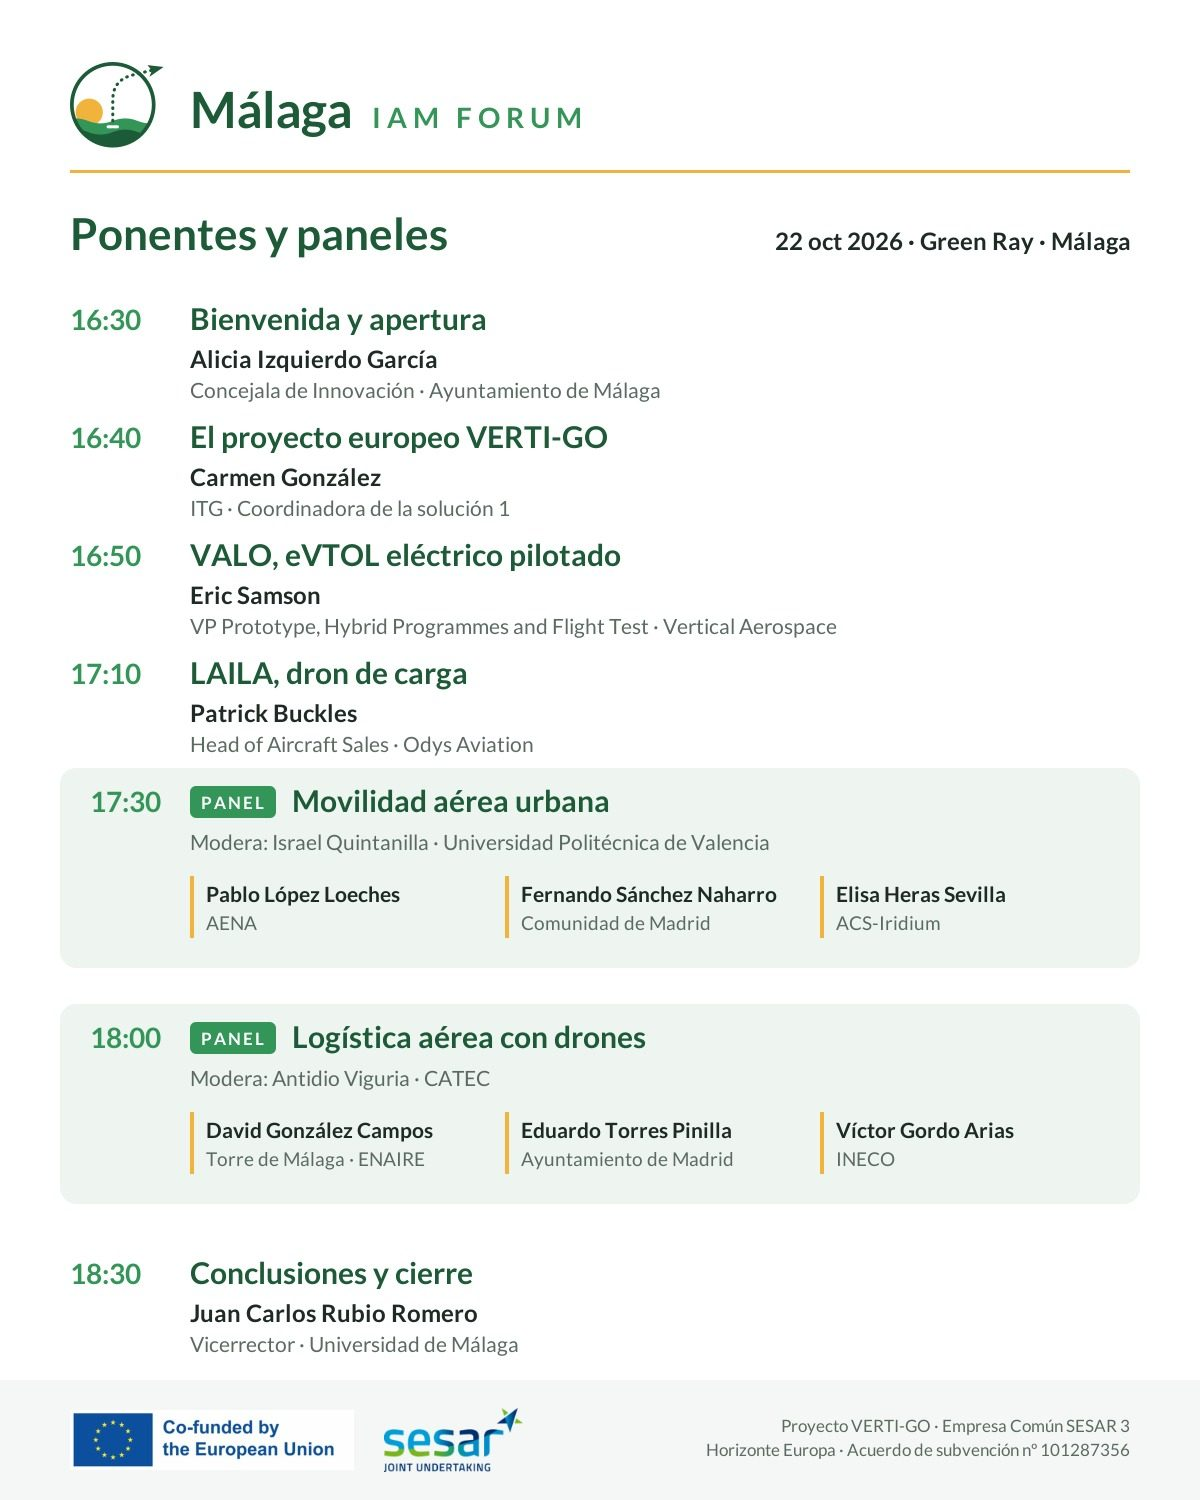
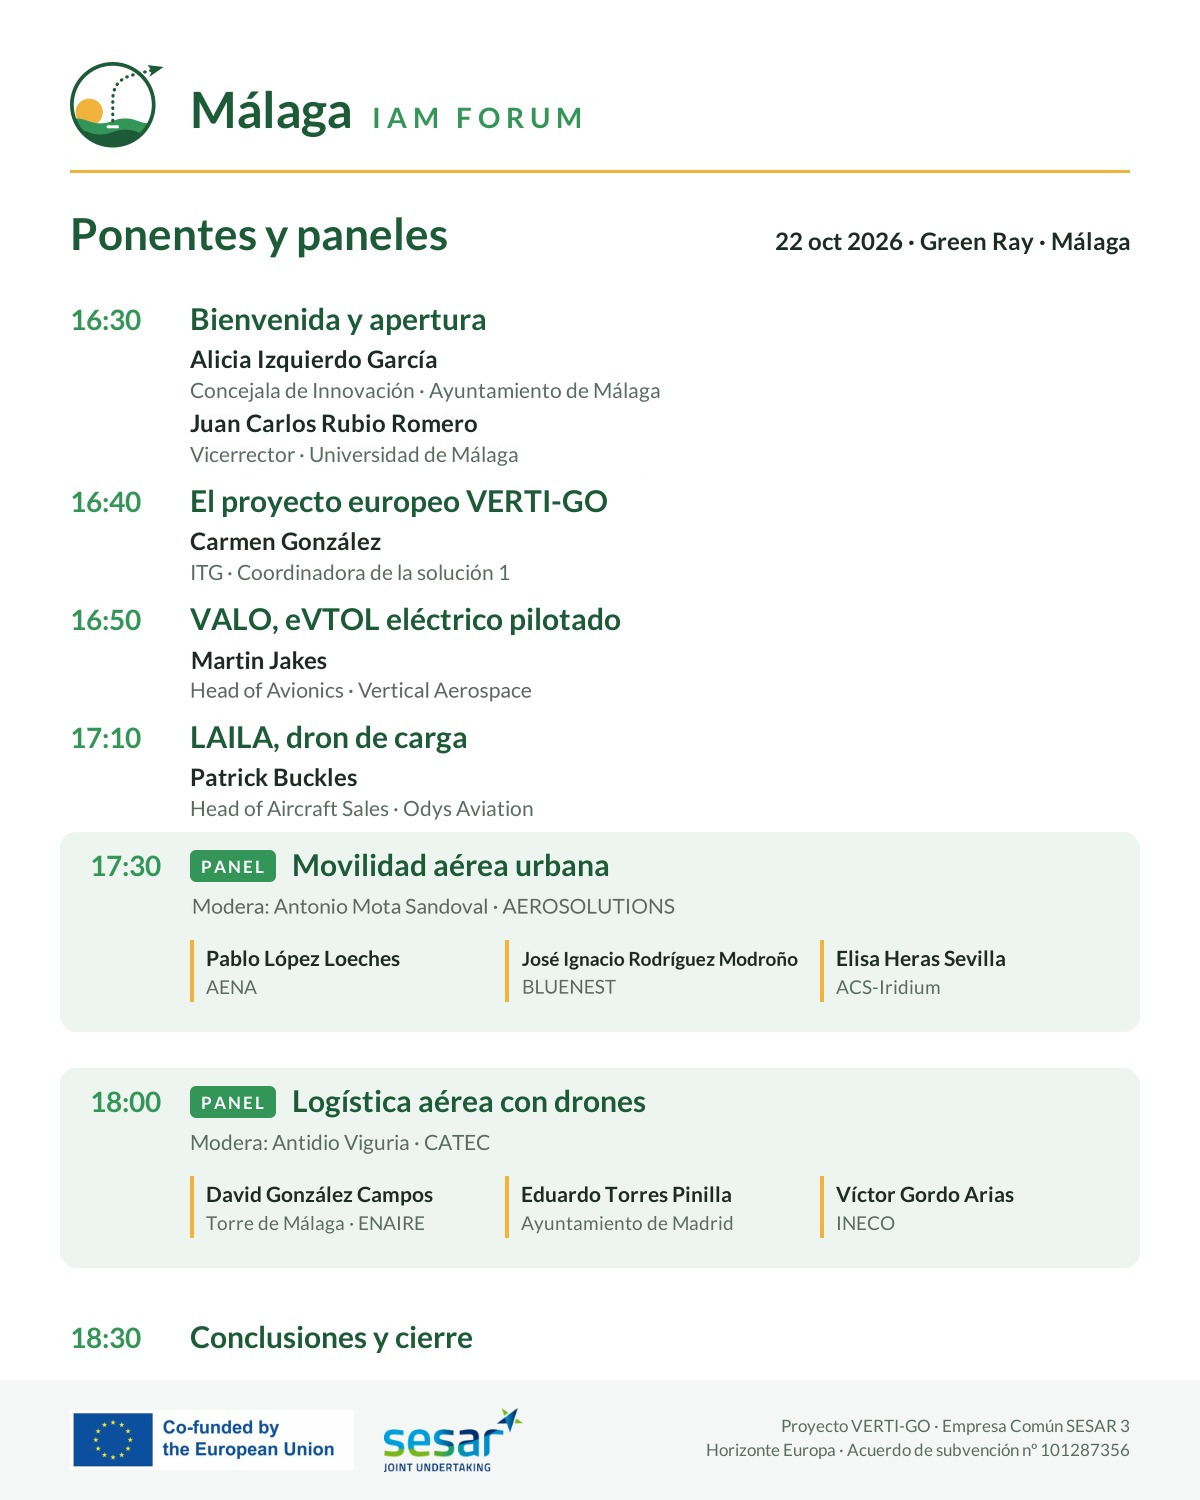
Actualizar agenda del 22 de octubre
- 16:30: se añade Juan Carlos Rubio Romero (Vicerrector, Universidad de Málaga)
- 16:50: Martin Jakes (Head of Avionics, Vertical Aerospace) sustituye a Eric Samson
- Panel 17:30: modera Antonio Mota Sandoval (AEROSOLUTIONS); José Ignacio Rodríguez Modroño (BLUENEST) sustituye a Fernando Sánchez Naharro
- 18:30: Conclusiones y cierre, sin ponente
- Imagen de ponentes actualizada

Claude-Session: https://claude.ai/code/session_018V2L71TcRUTZy4RYfs7X4L

diff --git a/index.html b/index.html
@@ -480,15 +480,15 @@ footer a{color:#fff}
           <span class="eyebrow">Encuentro 1 · jueves 22 de octubre de 2026</span>
           <h3 style="font-size:1.6rem;margin:6px 0 20px">Presentación pública del proyecto VERTI-GO</h3>
           <ol class="agenda">
-            <li><time>16:30</time><div><div class="t">Bienvenida y presentación del Málaga IAM Forum</div><div class="s">Alicia Izquierdo García · Concejala de Innovación, Ayuntamiento de Málaga</div></div></li>
+            <li><time>16:30</time><div><div class="t">Bienvenida y presentación del Málaga IAM Forum</div><div class="s">Alicia Izquierdo García · Concejala de Innovación, Ayuntamiento de Málaga</div><div class="s">Juan Carlos Rubio Romero · Vicerrector, Universidad de Málaga</div></div></li>
             <li><time>16:40</time><div><div class="t">Presentación del proyecto europeo VERTI-GO</div><div class="s">Carmen González · ITG, coordinadora de la Solución 1 de VERTI-GO</div></div></li>
-            <li><time>16:50</time><div><div class="t">VALO, aeronave eléctrica pilotada de despegue y aterrizaje vertical</div><div class="s">Aspectos técnicos, plan de certificación y puesta en servicio · Eric Samson, VP Prototype, Hybrid Programmes and Flight Test, Vertical Aerospace</div></div></li>
+            <li><time>16:50</time><div><div class="t">VALO, aeronave eléctrica pilotada de despegue y aterrizaje vertical</div><div class="s">Aspectos técnicos, plan de certificación y puesta en servicio · Martin Jakes, Head of Avionics, Vertical Aerospace</div></div></li>
             <li><time>17:10</time><div><div class="t">LAILA, dron de carga</div><div class="s">Características, utilidad, plan de certificación y entrada en servicio · Patrick Buckles, Head of Aircraft Sales, Odys Aviation</div></div></li>
             <li><time>17:30</time><div><div class="t"><span class="panel-tag">Panel</span>Movilidad aérea urbana</div><div class="s">Retos y previsiones para que los primeros «air taxi» con pasajeros lleguen a nuestras ciudades</div>
-              <ul><li class="mod">Modera: Israel Quintanilla · Universidad Politécnica de Valencia</li><li>Pablo López Loeches · AENA</li><li>Fernando Sánchez Naharro · Comunidad de Madrid</li><li>Elisa Heras Sevilla · ACS-Iridium</li></ul></div></li>
+              <ul><li class="mod">Modera: Antonio Mota Sandoval · AEROSOLUTIONS</li><li>Pablo López Loeches · AENA</li><li>José Ignacio Rodríguez Modroño · BLUENEST</li><li>Elisa Heras Sevilla · ACS-Iridium</li></ul></div></li>
             <li><time>18:00</time><div><div class="t"><span class="panel-tag">Panel</span>Logística aérea con drones</div><div class="s">Barreras normativas y expectativas de las operaciones comerciales</div>
               <ul><li class="mod">Modera: Antidio Viguria · CATEC</li><li>David González Campos · Torre de Málaga, ENAIRE</li><li>Eduardo Torres Pinilla · Ayuntamiento de Madrid</li><li>Víctor Gordo Arias · INECO</li></ul></div></li>
-            <li><time>18:30</time><div><div class="t">Conclusiones y cierre</div><div class="s">Juan Carlos Rubio Romero · Vicerrector, Universidad de Málaga</div></div></li>
+            <li><time>18:30</time><div><div class="t">Conclusiones y cierre</div></div></li>
           </ol>
         </div>
         <aside class="side">
@@ -562,10 +562,10 @@ footer a{color:#fff}
             <details>
               <summary>Leer más</summary>
               <div class="full">
-                <p>Abre el encuentro Alicia Izquierdo García (Ayuntamiento de Málaga). Carmen González (ITG) presentará el proyecto VERTI-GO, Eric Samson (Vertical Aerospace) el eVTOL Valo y Patrick Buckles (Odys Aviation) el dron de carga Laila.</p>
-                <p>El panel «Movilidad aérea urbana», moderado por Israel Quintanilla (Universidad Politécnica de Valencia), contará con Pablo López Loeches (AENA), Fernando Sánchez Naharro (Comunidad de Madrid) y Elisa Heras Sevilla (ACS-Iridium).</p>
+                <p>Abren el encuentro Alicia Izquierdo García (Ayuntamiento de Málaga) y Juan Carlos Rubio Romero (Vicerrector de la Universidad de Málaga). Carmen González (ITG) presentará el proyecto VERTI-GO, Martin Jakes (Vertical Aerospace) el eVTOL Valo y Patrick Buckles (Odys Aviation) el dron de carga Laila.</p>
+                <p>El panel «Movilidad aérea urbana», moderado por Antonio Mota Sandoval (AEROSOLUTIONS), contará con Pablo López Loeches (AENA), José Ignacio Rodríguez Modroño (BLUENEST) y Elisa Heras Sevilla (ACS-Iridium).</p>
                 <p>El panel «Logística aérea con drones», moderado por Antidio Viguria (CATEC), contará con David González Campos (Torre de Málaga · ENAIRE), Eduardo Torres Pinilla (Ayuntamiento de Madrid) y Víctor Gordo Arias (INECO).</p>
-                <p>Cierra Juan Carlos Rubio Romero, Vicerrector de la Universidad de Málaga. <a href="#evento-1">Ver la agenda completa</a>.</p>
+                <p>El encuentro terminará con las conclusiones y el cierre. <a href="#evento-1">Ver la agenda completa</a>.</p>
               </div>
             </details>
           </div>
